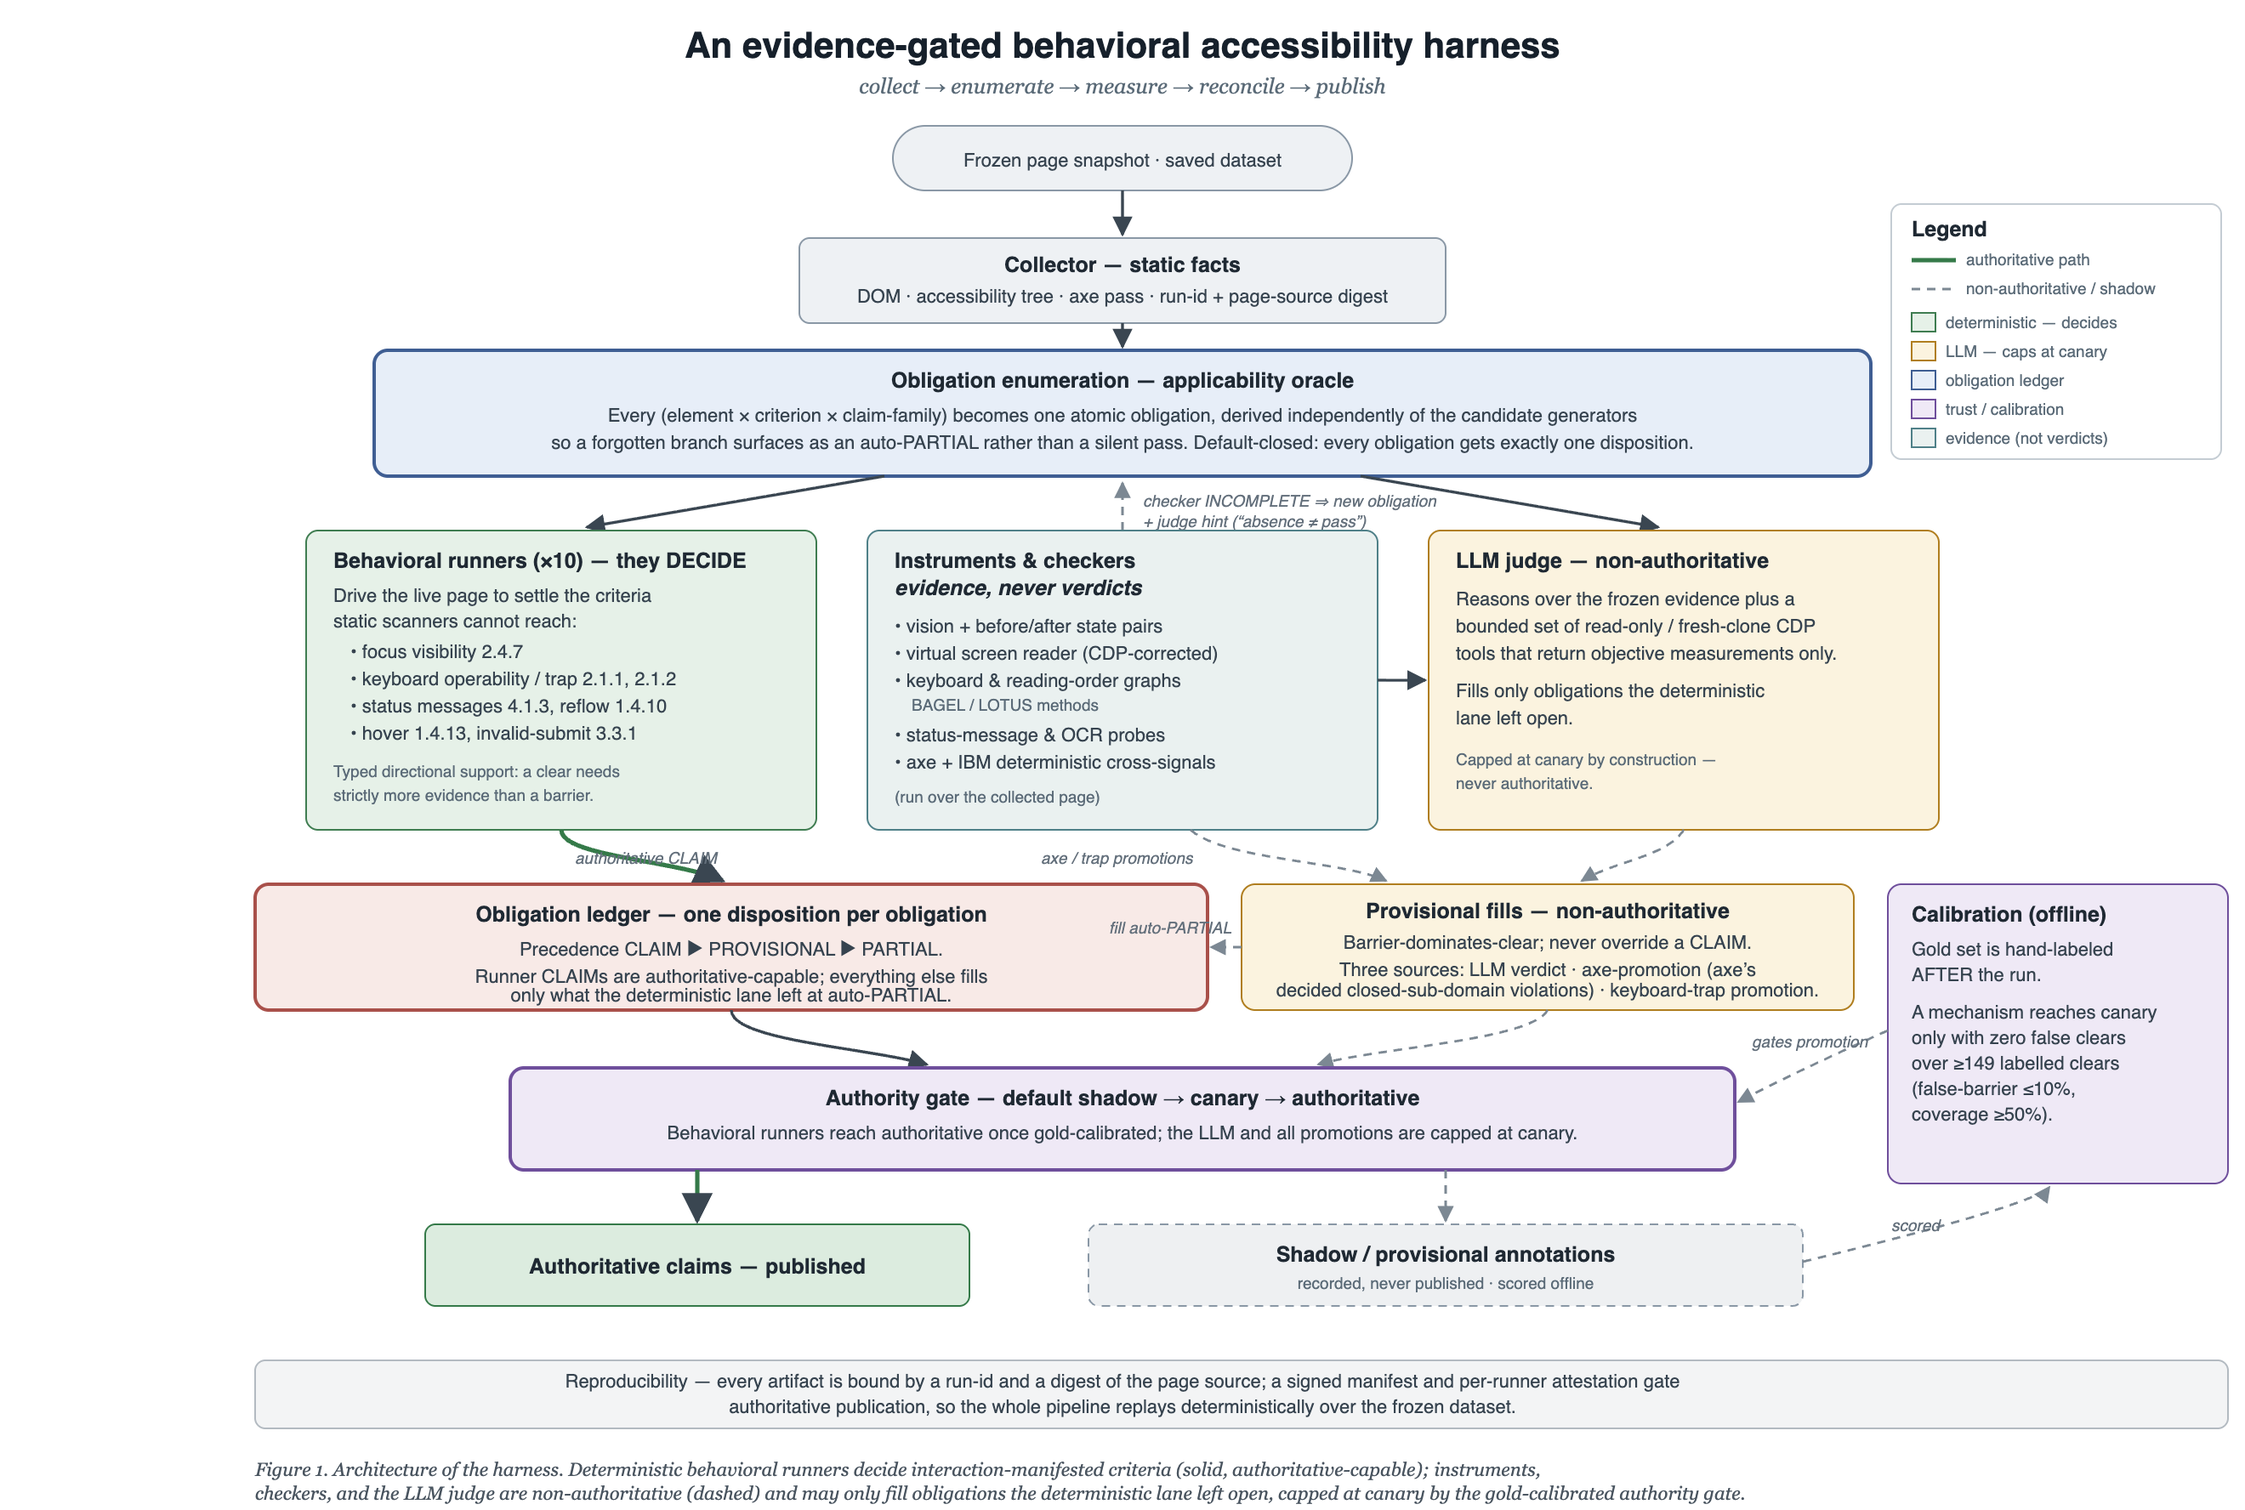
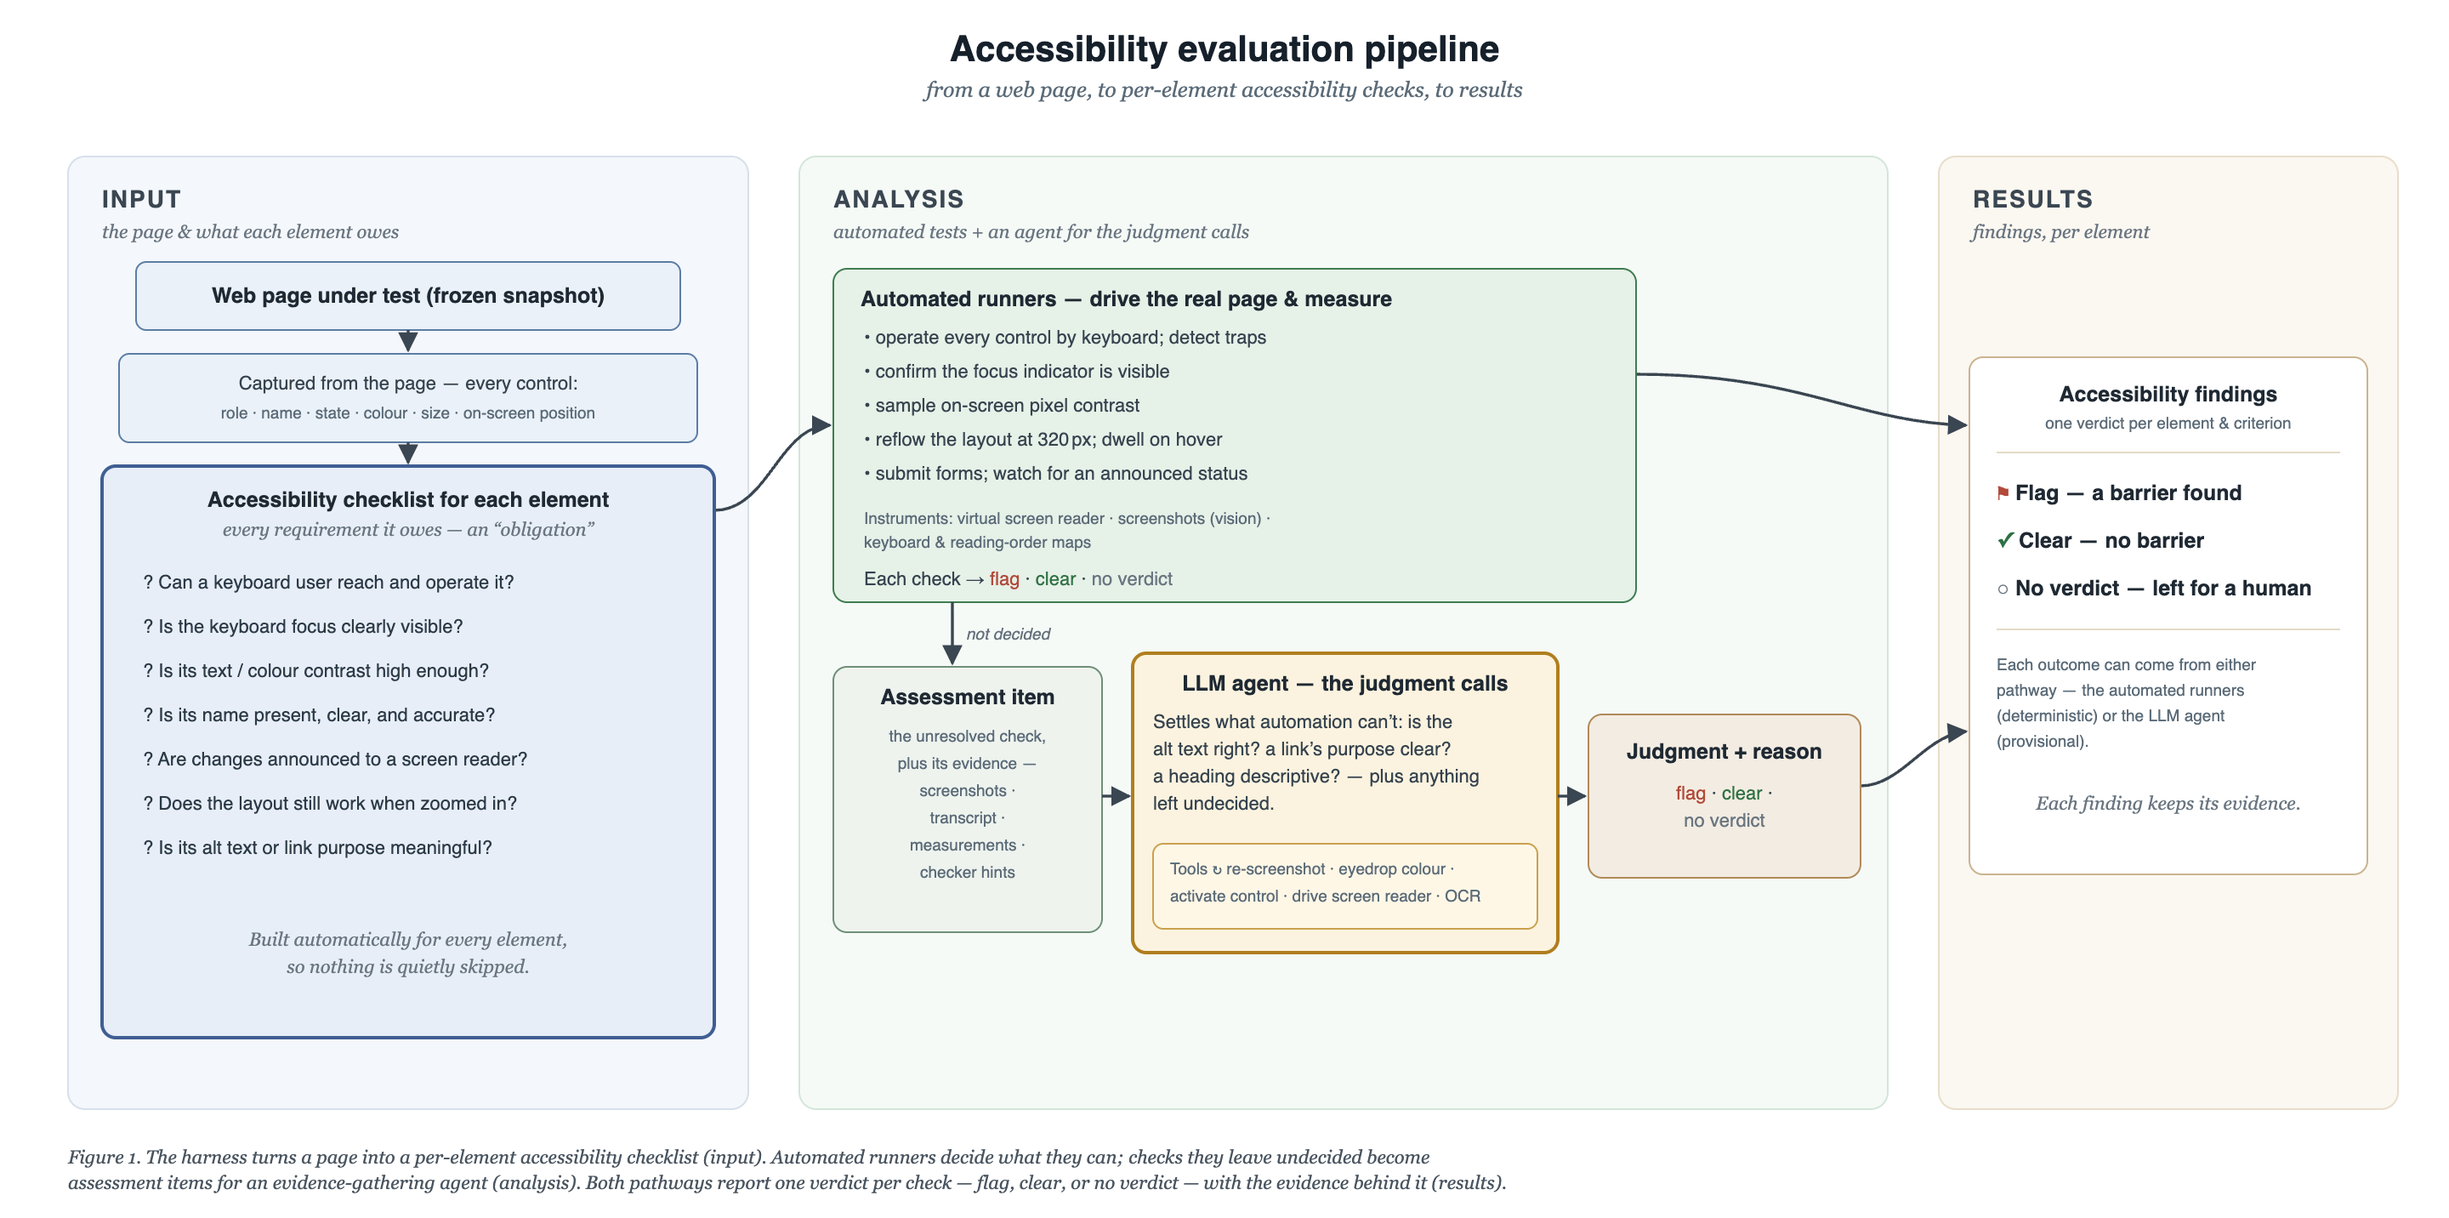
docs: concept map, deferred-TODO, paper tables, architecture figure updates
CLAUDE.md gains a categories.json scope pointer; CONCEPT-MAP + DEFERRED-TODO +
PAPER-TABLES-CONTRIBUTIONS updated alongside the routing-plan work; refreshed
harness-architecture figure (svg+png).

Claude-Session: https://claude.ai/code/session_0143xjbGvPjhUxHjQxE9nw7P

diff --git a/docs/DEFERRED-TODO.md b/docs/DEFERRED-TODO.md
@@ -307,13 +307,17 @@ cap-truncated page is no longer mistaken for a full-page claim. The rest:
   `motion-control` family + `motion-control-v0` rubric. Experimental broad-scope sidecar lanes now exist for
   1.4.2 audio control, 2.2.2 pause/stop/hide evidence, 2.3.1 flash-risk, and 2.1.2 trap review, with generated
   fixtures and no-authoritative-publication gates. These are **not production conformance lanes yet**:
-  - 1.4.2 generated positives prove known non-silent media playback for >3s with no independent control, but
-    arbitrary saved-site audibility and custom control exercise remain unresolved.
+  - 1.4.2 generated positives prove known non-silent media playback for >3s with no native or working
+    independent control, and generated custom pause/mute/volume controls are now exercised for observed effect.
+    Arbitrary saved-site audibility remains unresolved without a future audio-output side signal or equivalent
+    proof.
   - 2.3.1 generated positives cover only a narrow JS opacity-toggle fixture; production needs rendered-frame
     sampling, actual timestamps, relative-luminance / saturated-red threshold math, viewport/occlusion checks, and
     adversarial flash classes.
-  - 2.1.2 strengthening still needs the production trap detector to share the broader region selector and dynamic
-    focusable-derived budget.
+  - 2.1.2 generated keyboard-trap coverage now includes self-refocus, region/escape, and fixed-set confinement
+    positives plus Escape/advised-exit, single-focusable, one-way, and focus-redirection controls. Production
+    promotion still needs saved-page pressure, state isolation/replay traces, and bridge policy for any non-generated
+    detector expansion.
   Keep these sidecar-only until each family has a finite applicability predicate, adversarial fixture classes, saved
   page pressure evidence, and explicit bridge authorization.
 - **C.9.6.3 Complete processes — STRUCTURAL BOUNDARY (document, don't build).** `orchestrate()` consumes a single
@@ -404,9 +408,9 @@ Priority implementation themes:
   discovery for image text, canvas/SVG charts, icon-only meaning, and color-only information. A 2026-06-22 generated
   sidecar prototype now covers fixture-assisted pseudo/background text, canvas/SVG charts, and color-only cues, but
   remains `UNCERTAIN`-only and cannot prove alternative adequacy on arbitrary pages.
-- **Media and temporal thresholds.** Promote only narrow, measured sub-lanes first: audible autoplay duration and
-  independent controls for 1.4.2; rendered-frame flash frequency/area/red-threshold math for 2.3.1; persistent
-  non-essential motion with exercised controls for 2.2.2.
+- **Media and temporal thresholds.** Promote only narrow, measured sub-lanes first: live-page audibility proof for
+  1.4.2 beyond generated non-silent fixtures; rendered-frame flash frequency/area/red-threshold math for 2.3.1;
+  persistent non-essential motion with exercised controls for 2.2.2.
 - **Time-based media alternatives.** A 2026-06-22 generated media-alternatives packet slice now covers 10 positive
   and 10 negative scoped `1.2.x` fixtures with inline transcript/description extraction, SC-specific LLM prompt
   rules, and explicit barrier-or-uncertain sidecar packets. The live sidecar path now preserves scoped `1.2.x`
@@ -444,6 +448,36 @@ Priority implementation themes:
   proper-name/title removal records, language-specific readability formulas or qualified review, threshold mapping to
   lower secondary education, and supplemental-content adequacy review. SC 3.1.5 is AAA and not generally an EN 301
   549 V3.2.1 web requirement. A clean/no-packet readability result is not a `3.1.5` pass.
+- **Character key shortcuts.** A 2026-06-24 generated `2.1.4` packet slice now covers 10 positive and 10 negative
+  controls. Positives require a trusted single printable keypress, observed page-state change outside a focused
+  component, and no observed turn-off/remap/focus-only exception. Controls cover no shortcut surface, focus-only
+  shortcuts, working turn-off controls, working remap-to-modifier controls, and Control/Alt modified-key shortcuts.
+  Prompt-pack pressure emits 20 packets with `{LIKELY_BARRIER:10, UNCERTAIN:10}`; the 10 positives bridge to
+  barrier-only v3 judgments and the 10 controls produce 0 clears. This is still not a complete real-page solution:
+  saved websites need better discovery for JavaScript-only document/window listeners, canvas/offscreen/storage state
+  effects, persisted preference flows, and multi-step settings/remap workflows. A clean/no-packet shortcut result is
+  not a `2.1.4` pass.
+- **Status announcements.** A 2026-06-24 generated `4.1.3` packet slice now covers 10 positive and 10 negative
+  controls. Positives require trusted activation, observed status information about success/results/waiting/progress/
+  errors, focus not moved to the message, and no observed live/status/alert/log/direct announcement channel. Controls
+  cover `role=status`, `role=alert`, `role=log`, `aria-live`, focus movement, direct programmatic announcement, HTML
+  dialog context, native alert context, and disclosure/expanded-content context. Prompt-pack pressure emits 20 packets
+  with `{LIKELY_BARRIER:10, UNCERTAIN:10}` and 0 converted judgments; the lane remains sidecar-only with no registered
+  v3 publication claim family. Visual inspection confirmed that visually similar status messages can be barrier
+  candidates or scoped controls depending on programmatic/focus/context evidence. Remaining work: real accessibility
+  API/AT support evidence, delayed/debounced status settle windows, explicit handling for status-removal and icon-only
+  status semantics, and a publication derivation if this ever graduates beyond review evidence. A clean/no-packet
+  status result is not a `4.1.3` pass.
+- **Target size minimum sidecar controls.** A 2026-06-24 generated `2.5.8` packet slice now covers 10 positive and
+  10 negative controls. Positives require a rendered pointer target, below-24-by-24 CSS-pixel geometry, and 24px circle
+  spacing intersection. Controls now emit scoped `UNCERTAIN` packets for sufficient spacing, inline/in-sentence
+  targets, essential presentation, equivalent same-page target, unmodified user-agent control, and at-least-24px
+  targets. Prompt-pack pressure emits 20 packets with `{LIKELY_BARRIER:10, UNCERTAIN:10}` and 0 converted judgments;
+  integration audit reports 0 clear-bridgeable and 0 barrier-bridgeable rows. This broad-scope LLM lane is not the
+  publication authority for 2.5.8; the deterministic geometry path remains the intended publication mechanism.
+  Remaining work: real same-function equivalent proof, stronger essential/legal and UA-control attribution, tangent/
+  fractional-circle boundary fixtures, transformed/clipped/rounded/complex-shape targets, and obscured target states.
+  A clean/no-packet target-size result is not a `2.5.8` pass.
 - **Pointer and alternative-operation discovery.** Extend fixture-scoped 2.5.1 / 2.5.7 probes to discover author
   path gestures, multipoint-like gestures where possible, drag widgets, keyboard/text-field/menu alternatives, and
   independent essential/UA exception evidence. Current generated lanes are deliberately not exhaustive.

diff --git a/docs/analysis/reports-2026-06/PAPER-TABLES-CONTRIBUTIONS.md b/docs/analysis/reports-2026-06/PAPER-TABLES-CONTRIBUTIONS.md
@@ -100,6 +100,19 @@ Evidence forms (NONE is the harness's deployed form except where noted):
 | Full + HTML + full-page vision | full-page | 43/66 | 78.8 | 72.2 | 0.75 | 5.1 |
 | Full + HTML, style-stripped | targeted | 42/66 | **78.8** | 76.5 | 0.78 | 4.1 |
 | **Full + HTML, style-stripped + facet-gated** | targeted | 42/66 | 77.3 | **81.0** | **0.79** | 3.1 |
+| **▶ Current pipeline (2026-06-24): default + new det. runners** | targeted | **43/66** | **78.8** | 78.8 | 0.788 | 3.6 |
+
+> **Re-run on current code (2026-06-24, `results/exp30-current-html`).** A full 458-case re-run of the
+> *deployed-default* config (facet-gated style-stripped HTML augmentation + targeted vision + tools) at the
+> **default medium effort**, now including the deterministic runners landed after exp19 — non-text contrast
+> (1.4.11), glyph-text-alt / multipart-grouping / positive-tabindex (C8 small-signals), and the composite
+> arrow-key-trap runner (2.1.2) — plus their collector-parity facts. **Result: 78.8% recall (52/66), the
+> highest LLM-lane marginal recall in the table (43/66).** It **beats the prior best deployed config's recall
+> at a *lower* effort** (exp19 was 77.3% at effort=high; this is 78.8% at medium). The new runners settle more
+> obligations deterministically *before* the LLM (e.g. 1.4.3 `noObligation` 9→15). Precision dips to 78.8%
+> (FP 14 vs exp19's 11) — partly the medium-vs-high effort tradeoff (exp19 @ high held 82.3% precision); a
+> matched high-effort re-run would be expected to recover most of it. Recompute: `node
+> eval/checker-comparison/ablation-table.js`.
 
 **Two independent levers (the corrected central finding).**
 - **Vision is the RECALL lever.** name/role 6 → +vision 26 (LLM-lane). The model must *see* the rendered page
@@ -159,6 +172,37 @@ fires on a GT-pass/inapplicable case. (The methodological check that caught two 
 | confinement keyboard-trap (2.1.2) | — | 4/7 passed | **demoted** to review (escape-advisory is semantic) |
 | **post-fix deterministic FP (full eval)** | — | **0 real** | — |
 
+## Table 1c — Judge-design levers cannot reduce the residual FP (controlled, fixed-evidence)
+
+The Table-1b precision (FP ~3.1–3.6%) is dominated by a residual of *semantic-judgment-limited* FPs (link
+purpose-equivalence, decorative/essential image-of-text, name-vs-descriptiveness). We tested whether **LLM
+judge-design** can remove them with a **fixed-evidence replay harness**: freeze each case's judge inputs
+(route-by-facet structured signals + vision crops + screen-reader transcript) once, then re-run ONLY the LLM
+judgment under a varied judge design. This isolates the judge's *intrinsic* sampling noise from collect/vision/tool
+nondeterminism, which a prior single-run study could not.
+
+**Fixed-evidence noise floor.** With evidence byte-fixed, the FP count still varies **σ≈1.06 / range 3** over K=10
+identical runs — half the full-pipeline range (6); the judge's own sampling is an irreducible ±1 FP. Methods are
+therefore scored by per-case **stable transition** (a 10/10-flagged FP driven to 0/K), not the noise-bound aggregate.
+
+| Judge-design lever | ΔFP | Δrecall | result |
+|---|---|---|---|
+| Confidence-gated abstention | −2.2 | −1.0 | symmetric (FPs are 87% high-confidence) |
+| Self-consistency (majority / unanimity) | −1.7 / −3.7 | −0.4 / −3.4 | negligible / symmetric |
+| Decomposed applicability gate | +0.7 | −0.6 | null |
+| Distractor-strip (drop task framing) | −1.1 | +1.4 n.s. | FP-neutral and recall-neutral (apparent recall gain washes out at full scale) |
+| Positive-class boundary prose | −2.9 | −1.2 | 0 stable FP fixed |
+| Self-refutation cascade | −4.7 | −4.4 | symmetric/net-negative |
+| Grounded-verdict requirement | −4.9 | −1.8 | clears *defensible* link FPs, loses real ones |
+| **Cross-family panel (Gemini refuter)** | −6 | −5 | symmetric |
+| grounded + strip (combination) | −3.3 | −2.2 | non-additive, symmetric |
+
+**Every lever that cuts FP cuts recall comparably; none is asymmetric.** Decisively, a *different model family*
+(Gemini) fails on the *same* residual cases and *agrees* they are barriers — the signature of **intrinsic WCAG
+ambiguity / debatable ground truth**, not a model error a better judge design removes. This is the controlled,
+cross-model confirmation of the Table-1b precision ceiling. (Full study: `docs/analysis/improvement-research-2026-06/
+FP-REDUCTION-CONTROLLED-ROUND2.md`.)
+
 ## Main contributions
 
 1. **A verifiable neuro-symbolic conformance harness with an *obligation ledger*.** Per (element × success
@@ -201,6 +245,15 @@ fires on a GT-pass/inapplicable case. (The methodological check that caught two 
    localize the residual false positives to *semantic-judgment-limited* cases (link purpose-equivalence;
    decorative-image judgment) that additional rules cannot fix — a concrete boundary on where LLMs help vs.
    remain unreliable here.
+
+6. **The residual-FP ceiling is judge-design-invariant (controlled, cross-model).** With a fixed-evidence replay
+   harness + per-case stable-transition protocol (Table 1c), none of **nine** LLM judge-design levers (confidence
+   abstention, self-consistency, atomic decomposition, distractor-stripping, positive-class prose, grounded
+   verdicts, self-refutation) nor a **cross-family Gemini panel** reduces the residual FP without an equal recall
+   cost; the residual is confident and *cross-model-shared* (Gemini and Claude fail on, and agree about, the same
+   cases). This delimits LLM-as-judge improvement for conformance — the boundary in #5 is **intrinsic** (debatable
+   GT / semantic ambiguity), not a prompting deficiency — and quantifies the judge's irreducible sampling noise
+   (σ≈1.06 FP), recommending multi-run-median measurement for sub-floor changes.
 
 ## Related work (anchors to situate the contributions)
 

diff --git a/docs/CONCEPT-MAP.md b/docs/CONCEPT-MAP.md
@@ -2,9 +2,12 @@
 
 _Updated 2026-06-18 (reflects axe-promotion + checker-uncertainty routing, commits `5dd67a8` / `7e7a3e3`)._
 
-The paper-quality figure is [`figures/harness-architecture.svg`](figures/harness-architecture.svg)
-(raster: [`figures/harness-architecture.png`](figures/harness-architecture.png)). The Mermaid below is the
-editable source of the same architecture.
+The paper-quality **overview** figure is [`figures/harness-architecture.svg`](figures/harness-architecture.svg)
+(raster: [`figures/harness-architecture.png`](figures/harness-architecture.png)) — a focused
+**input → analysis → results** view in plain HCI terms (page → per-element accessibility checklist →
+automated runners + agentic analysis → findings). The Mermaid below is the fuller **system-level** view
+(obligation ledger, the three-source provisional fill, and the authority / gold-calibration gate the
+overview deliberately omits).
 
 **Colour legend:** 🔵 obligation ledger / anchoring · 🟢 deterministic, decides · 🟡 LLM, non-authoritative ·
 🔴 reconciliation · 🟣 trust & calibration · ⚪ evidence & integrity.

diff --git a/CLAUDE.md b/CLAUDE.md
@@ -2,3 +2,4 @@
 - When vision model disagrees with code, inspect the code first. If the disagreement reason is not apparent, ask Gemini 3.5 flash model to help. The API key is in .env.
 - Foundation tests are slow, only run that suite if it is likely needed. Running the full testing suite takes a while, so make it a background task.
 - If you are doing an analysis task: do NOT reset, stash, or otherwise clear the current git working tree unless explicited told to do so. Another agent may be working on it.
+- The scope of our project is defined in categories.json.
